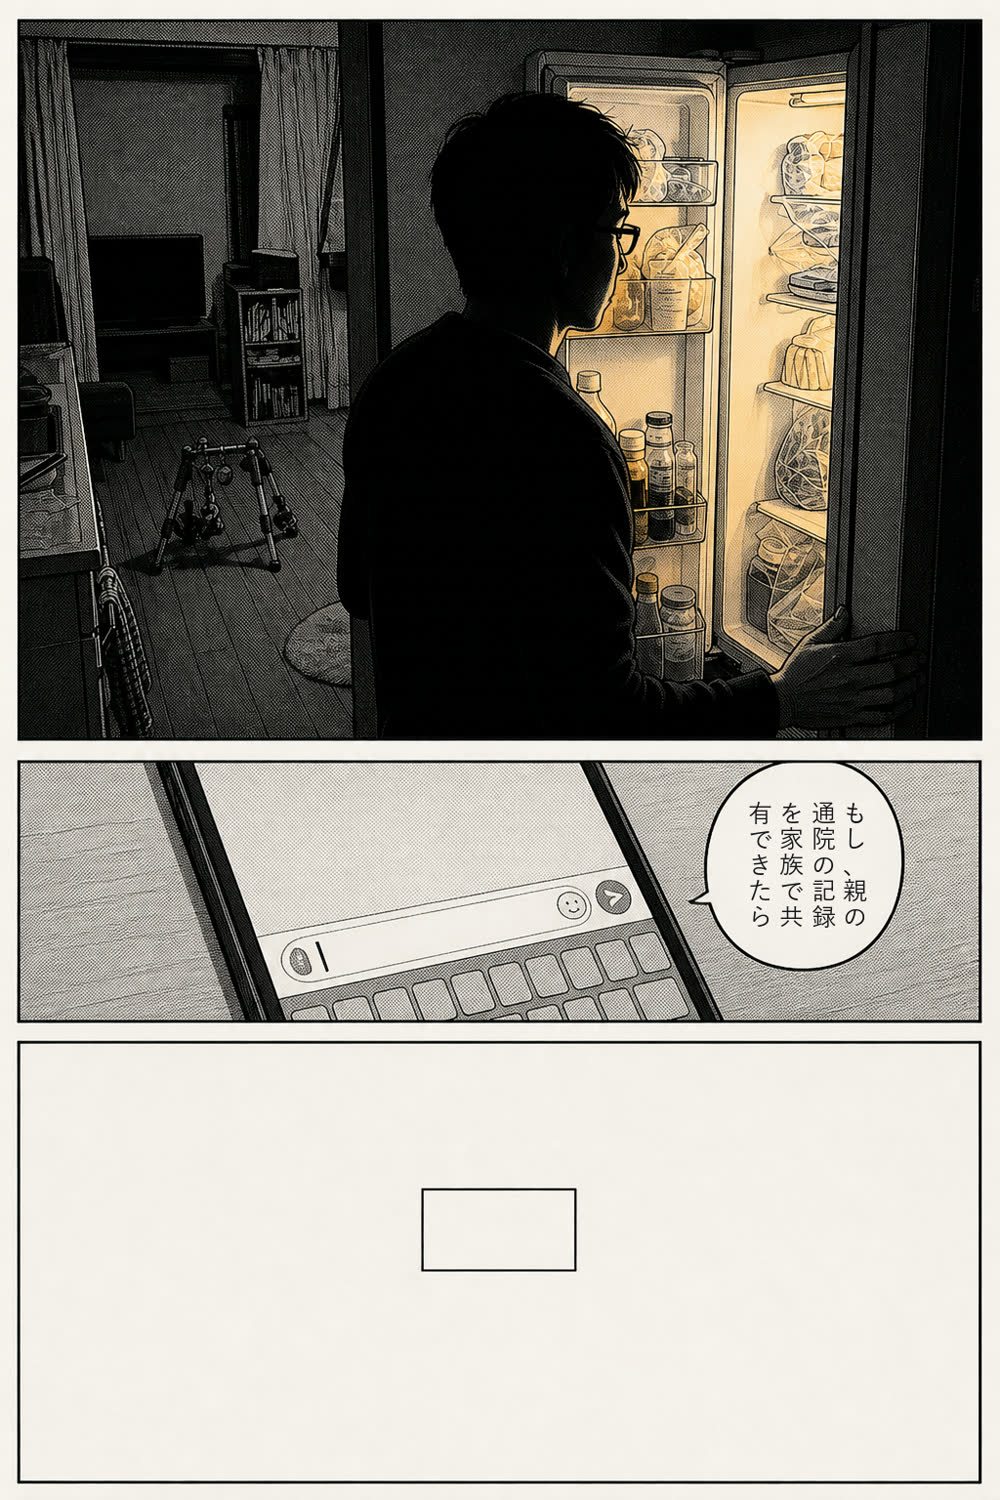
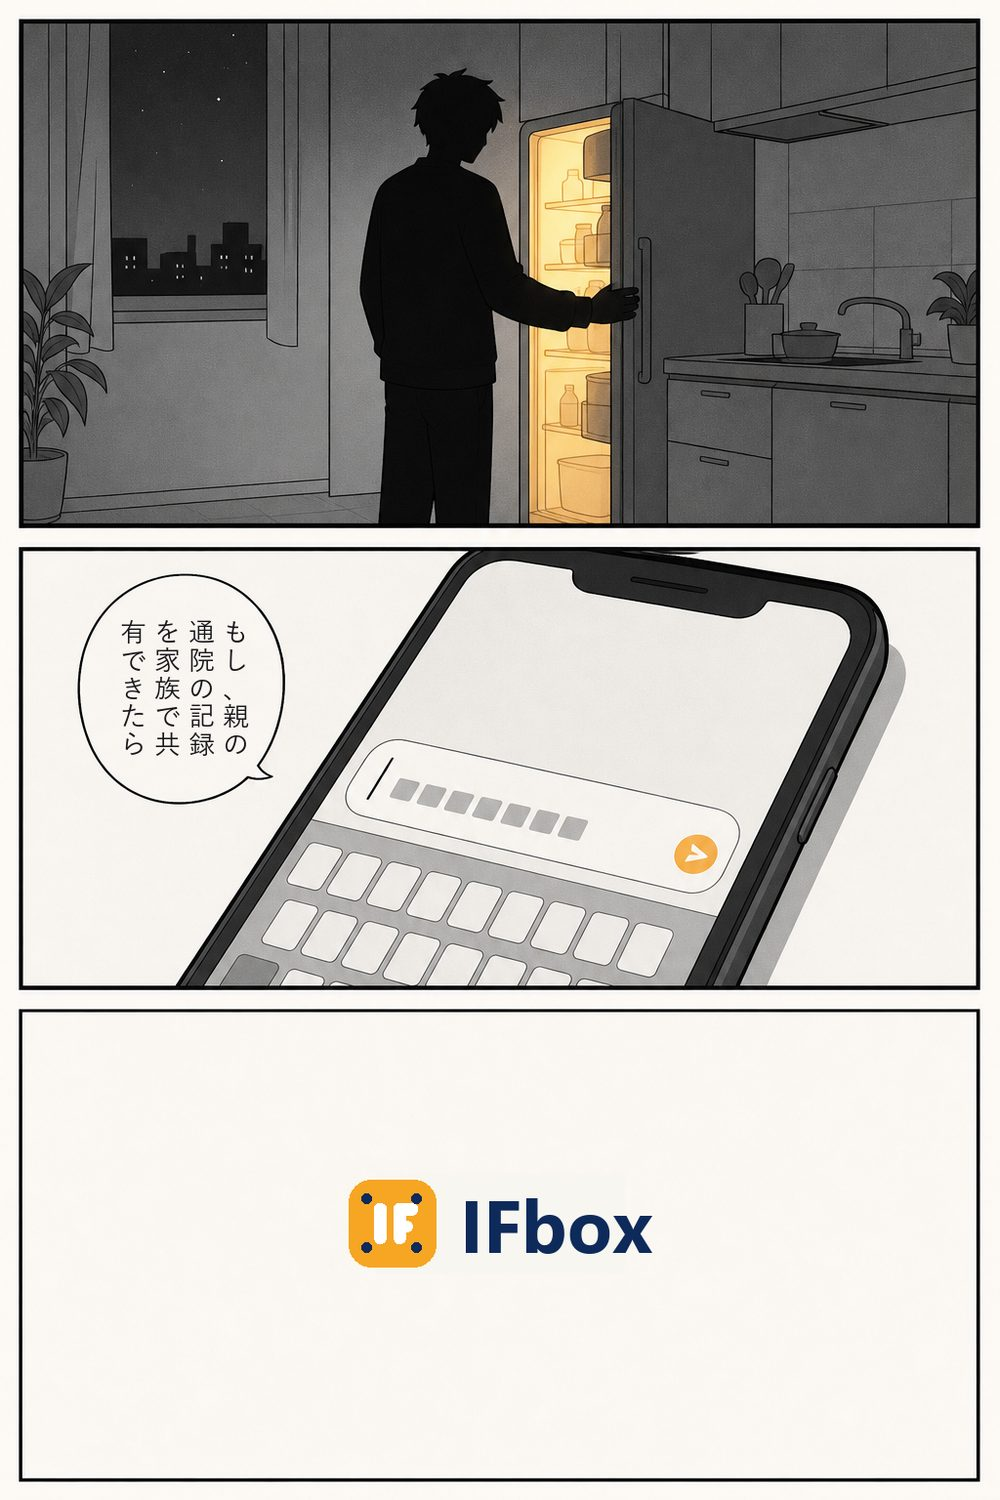
漫画を劇画からポップな絵柄に描き直し、ページ順の逆転を修正
- 実写の場面写真を下敷きにするのをやめ、ポップな絵柄のキャラクター
  参照シートを新規に作って全11ページを描き直し
- セリフを22本に増やし、吹き出しの検出結果から手で位置を指定
- 最終ページの枠にIFboxのロゴを配置
- ビューアがページを逆順に並べていた不具合を修正
- バナーのサムネイルを新しい絵柄に差し替え

diff --git a/manga/index.html b/manga/index.html
@@ -89,7 +89,7 @@
 <script>
 (function(){
   var N=11, v=document.getElementById('viewer'), end=document.getElementById('end');
-  for(var i=N;i>=1;i--){
+  for(var i=1;i<=N;i++){
     var n=('0'+i).slice(-2);
     var s=document.createElement('section'); s.className='slide';
     s.innerHTML='<img src="pages/p'+n+'.jpg" alt="ページ'+i+'"'+(i>2?' loading="lazy"':'')+'>';
